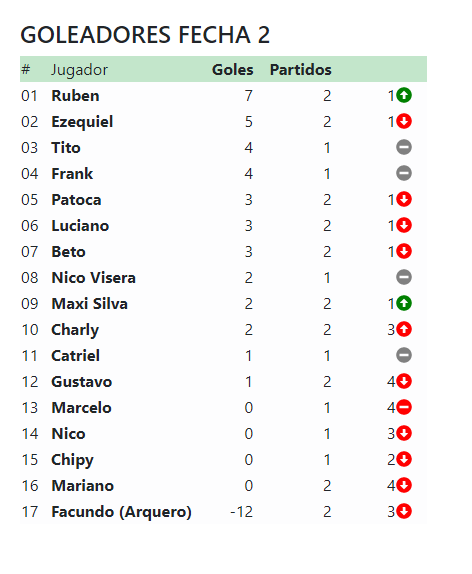
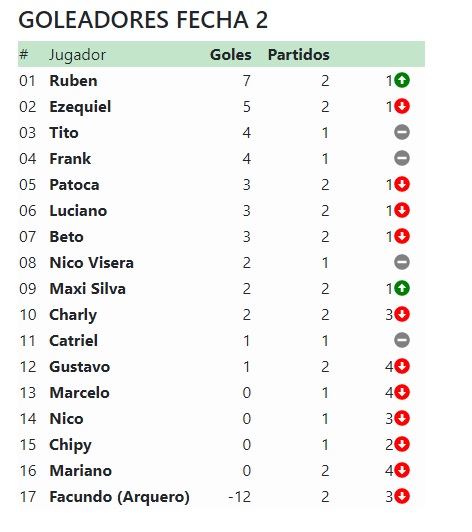
Fecha 2

Changed region(s): [[0.0297, 0.0, 0.9195, 0.9624], [0.6822, 0.4812, 0.7119, 0.9023], [0.6822, 0.3308, 0.7119, 0.4511]]

diff --git a/Goleadores/Goleadores Fecha 2.htm b/Goleadores/Goleadores Fecha 2.htm
@@ -115,7 +115,7 @@
 		<th scope="row">Charly</th>
 		<td class="flotante">2</td>
 		<td class="flotante">2</td>
-		<td class="flotante"> 3<i class="fas fa-arrow-alt-circle-up" style='color:red'></i></td>
+		<td class="flotante"> 3<i class="fas fa-arrow-alt-circle-down" style='color:red'></i></td>
 	</tr>	
 	<tr class="table-light">
 		<td>11</td>	  
@@ -136,7 +136,7 @@
 		<th scope="row">Marcelo</th>
 		<td class="flotante">0</td>
 		<td class="flotante">1</td>
-		<td class="flotante"> 4<i class="fas fa-minus-circle" style='color:red'></i></td>
+		<td class="flotante"> 4<i class="fas fa-arrow-alt-circle-down" style='color:red'></i></td>
 	</tr>
 	<tr class="table-light">
 		<td>14</td>	  
